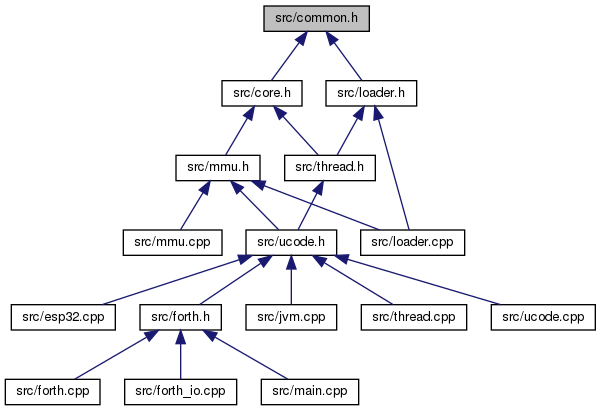
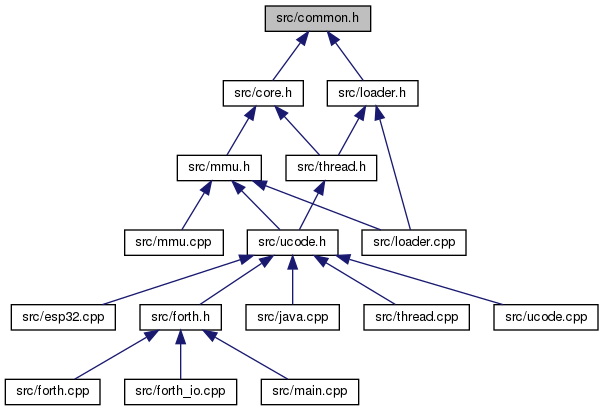
~/README update common png; rename jvm to java

diff --git a/README.md b/README.md
@@ -12,12 +12,12 @@
 |core.h|common classes|List, Method, Word|
 |thread.*|core thread (i.e. task) class|Thread|
 |mmu.*|memory pool managemer|KV, Pool|
-|ucode.*|JVM microcode unit|Ucode|
-|forth_io.*|Forth IO functions| |
-|forth.cpp|Forth words|uForth|
-|esp32.cpp|ESP32 words|uESP32|
 |loader.*|bytecode loader|Loader|
-|jvm.*|java virtual machine| |
+|java.*|java virtual machine| |
+|forth.*|Forth words|uForth|
+|forth_io.cpp|Forth IO functions| |
+|ucode.*|JVM microcode unit|Ucode|
+|esp32.cpp|ESP32 words|uESP32|
 |main.cpp|main module| |
 ### tests
 |case|methods|note|
